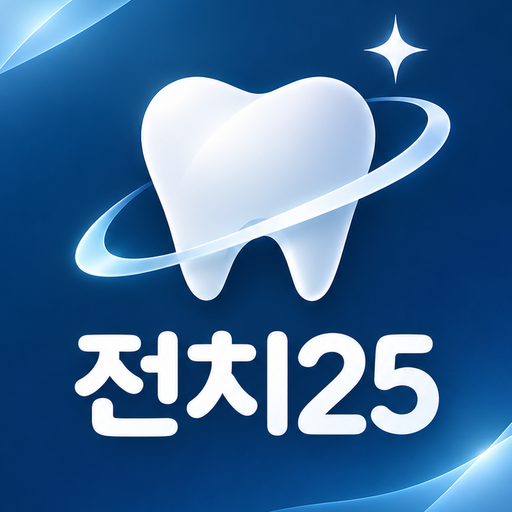
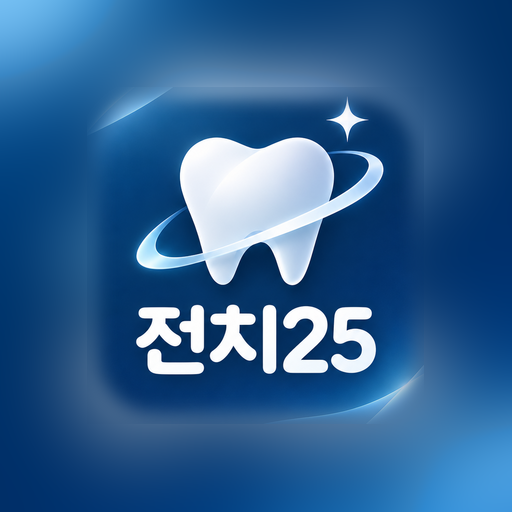
아이콘: 안드로이드가 동그랗게 깎아도 잘리지 않게 그림을 안쪽으로
- 그림을 줄여(일반 80%, 안드로이드 maskable 66%) 같은 그림을 흐리게 깐 배경 위에 얹어 가장자리까지 자연스럽게
- 설치된 폰이 새 아이콘을 받아 가도록 아이콘 주소에 ?v=2

Claude-Session: https://claude.ai/code/session_01JPaUmkgUKPJEQKHtWSj7xf

diff --git a/index.html b/index.html
@@ -6,13 +6,13 @@
 <meta name="theme-color" content="#1d5d8a">
 <title>전치25</title>
 <link rel="manifest" href="/manifest.webmanifest">
-<link rel="apple-touch-icon" href="/icon-180.png">
+<link rel="apple-touch-icon" href="/icon-180.png?v=2">
 <meta name="apple-mobile-web-app-capable" content="yes">
 <meta name="mobile-web-app-capable" content="yes">
 <meta name="apple-mobile-web-app-title" content="전치25">
 <meta name="application-name" content="전치25">
 <meta name="apple-mobile-web-app-status-bar-style" content="default">
-<link rel="icon" type="image/png" href="/favicon-64.png">
+<link rel="icon" type="image/png" href="/favicon-64.png?v=2">
 <link rel="preconnect" href="https://fonts.googleapis.com">
 <link rel="preconnect" href="https://fonts.gstatic.com" crossorigin>
 <link rel="stylesheet" href="https://fonts.googleapis.com/css2?family=IBM+Plex+Sans+KR:wght@400;500;700&family=IBM+Plex+Mono:wght@500;600&display=swap">

diff --git a/CLAUDE.md b/CLAUDE.md
@@ -57,7 +57,7 @@
 - 명단에서 빠진 학생의 출결은 `attendance` 표에 남지만(다시 들어오면 쓴다) `_state`의 `att`에는 싣지 않는다.
 - 탭 순서: 탭을 0.5초 길게 누르면(그동안 `.pressing` 밑줄이 차오름) 집고(`.dragging`: 떠올라 그림자, 나머지는 흐림, transform으로 손가락을 따라옴), 다른 탭(원래 자리, `offsetLeft`라 `.tabs`가 `position:relative`) 위로 끌면 그 자리를 차지하며 비켜나는 탭은 FLIP으로 미끄러지고, 줄 가장자리 40px 안이면 저절로 스크롤한다. 놓으면 0.15초 내려앉은 뒤(`settling`) 역할마다 이 폰에만 기억한다(`localStorage` `jabong-taborder`, `tabsOf`가 `baseTabs`에 적용, 기억에 없는 새 탭은 맨 뒤). 맨 앞 탭이 처음 여는 탭이다. 그 전에 움직이면 보통 누름·스크롤이고, 집은 동안은 `touchmove`를 막아 탭 줄이 스크롤되지 않게 한다. 끌기를 끝낸 손을 뗄 때 오는 누름은 `tabDragEnd`로 막는다(새로 누르기 시작하면 풀린다). 움직임 줄이기 설정이면 애니메이션 없이 바로 바뀐다. 움직임·떼기는 창 전체(window)에서 받는다.
 - 학생 "내 번호"는 `localStorage`(`jabong-myno`)에만 둔다. 서버에 저장하지 않는다(번호만 고르면 누구나 되는 것과 같은 수준).
-- 홈 화면 앱: `public/manifest.webmanifest`와 아이콘(`public/icon-*.png`, 파비콘 `favicon-64.png`). 앱 이름은 "전치25"(manifest `name`·`short_name`, `<title>`, `.brand`, 아이폰 `apple-mobile-web-app-title`). 아이콘은 사용자가 준 "전치25" 그림을 파란 사각형 안쪽으로 꽉 차게 잘라(둥근 모서리는 폰이 깎는다) 크기별 PNG로 만든 것이다. 서비스 워커는 두지 않는다(캐시 때문에 새 버전이 늦게 보이는 일을 피하려고).
+- 홈 화면 앱: `public/manifest.webmanifest`와 아이콘(`public/icon-*.png`, 파비콘 `favicon-64.png`). 앱 이름은 "전치25"(manifest `name`·`short_name`, `<title>`, `.brand`, 아이폰 `apple-mobile-web-app-title`). 아이콘은 사용자가 준 "전치25" 그림을 파란 사각형 안쪽으로 잘라, 같은 그림을 흐리게 깐 배경 위에 줄여 얹은 PNG다(안드로이드가 동그랗게 깎아도 이·글자가 잘리지 않게: 일반 80%, maskable 66%). 아이콘을 바꾸면 manifest·index.html의 `?v=` 숫자를 올린다(설치된 폰이 새로 받게). 서비스 워커는 두지 않는다(캐시 때문에 새 버전이 늦게 보이는 일을 피하려고).
 - 한글 입력: 입력칸을 통째로 다시 그리면 조합이 깨진다. 입력 중 갱신이 필요하면 `data-live`(추천·칩 영역만 갱신)나 `data-region`(특정 영역만 갱신)을 쓰고, `data-rerender`는 날짜·숫자·체크박스처럼 한글이 없는 칸에만 쓴다.
 - Supabase는 앱에서 온 요청의 `where` 없는 `delete`/`update`를 거절한다(pg_safeupdate). 로컬 Postgres에서는 통과하니, 전체를 지울 때도 `where true`를 붙인다. `test/schema.test.js`가 검사한다.
 - 백업: `_dump()`가 비밀번호·로그인·사진을 뺀 전체 데이터를 JSON으로 만든다. `backup_dump()`는 로그인 없이 누구나 부를 수 있다(학급이 이름 공개를 괜찮다고 정했다). jabong-backup 저장소의 GitHub Actions가 매일 이것을 받아 암호화 없이 올린다. `restore_backup`은 부총대만 되고, 되살리기 직전에 화면이 현재 상태 파일을 먼저 받게 한다. `src/backupcrypt.js`는 예전에 암호를 걸어 받은 파일을 열 때만 쓴다.
